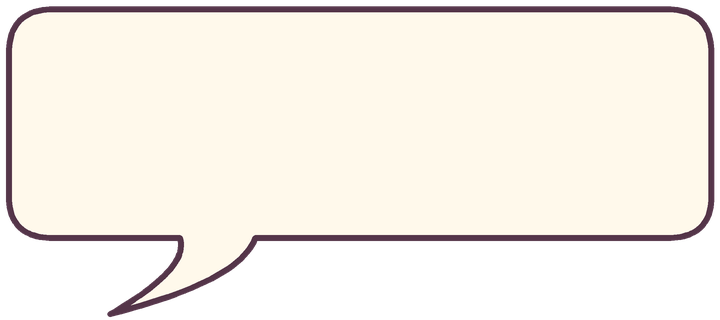
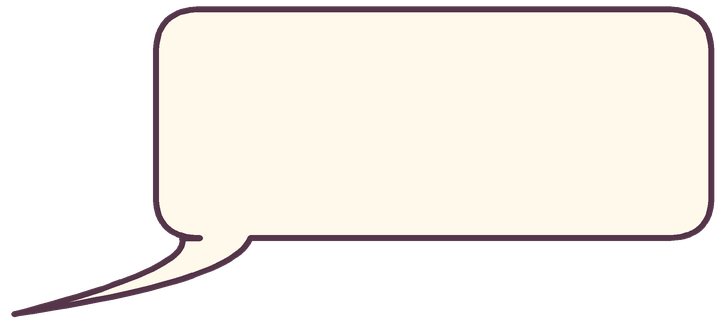
Keep Sibilla’s face clear and preload speech balloon art

Changed region(s): [[0.0, 0.0, 0.3667, 1.0], [0.0, 0.0625, 0.0306, 0.7188]]

diff --git a/assets/reader-calcolo-letterale.css b/assets/reader-calcolo-letterale.css
@@ -182,10 +182,11 @@
 }
 .cl-booth .cl-balloon {
  --balloon-art:url('images/reader/sibilla-festival/balloon-sibilla-banco.png');
- --tail-x:15.3%;
- --speaker-x:53%;
+ --tail-x:1.95%;
+ --speaker-x:54%;
  --speaker-y:42%;
- max-width:46%;
+ max-width:44%;
+ padding-left:calc(9.6cqw + .76em);
 }
 .cl-controls {
  display:grid;
@@ -264,6 +265,11 @@ body[data-reader-lesson="calcolo-letterale-introduzione"] math[display="block"] 
  }
  .cl-festival .cl-balloon {
   max-width:58%;
+ }
+ .cl-booth .cl-balloon {
+  --speaker-x:50%;
+  --speaker-y:45%;
+  max-width:49%;
  }
 }
 @media (prefers-reduced-motion: reduce) {

diff --git a/reader.html b/reader.html
@@ -57,8 +57,8 @@
 <script src="assets/fraction-copilot.js?v=6" defer></script>
 <script src="assets/reader-rational-boards.js?v=12" defer></script>
 <script src="assets/reader-division-intro.js?v=8" defer></script>
-<link rel="stylesheet" href="assets/reader-calcolo-letterale.css?v=4">
-<script src="assets/reader-calcolo-letterale.js?v=4" defer></script>
+<link rel="stylesheet" href="assets/reader-calcolo-letterale.css?v=5">
+<script src="assets/reader-calcolo-letterale.js?v=5" defer></script>
 <script src="assets/reader.js?v=108" defer></script>
 <script src="assets/reader-typography.js?v=1" defer></script>
 

diff --git a/assets/reader-calcolo-letterale.js b/assets/reader-calcolo-letterale.js
@@ -97,6 +97,13 @@
  }
  function mountIntro(root,onNext){
   const {scene,balloon,button,say}=comicPanel(root,festivalView);
+  for(const name of ['sibilla-viale','red','bjorne','sibilla-banco']){
+   const image=document.createElement('img');
+   image.hidden=true;
+   image.alt='';
+   image.src=`${art}balloon-${name}.png`;
+   root.append(image);
+  }
   const state=gameState.intro;
   let timer;
   function draw(){
